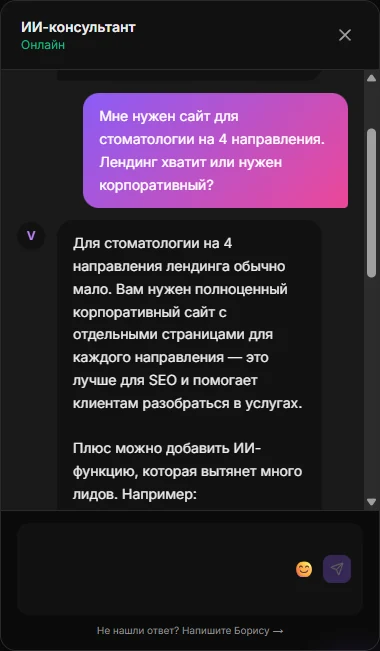
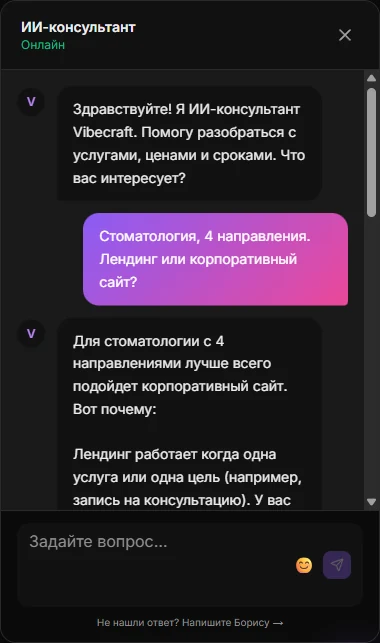
fix(blog): скрин ИИ-консультанта переснят как его видит посетитель, картинки по центру колонки
Кадр был снят с середины переписки и с фокусом в поле ввода: placeholder гаснет при
фокусе, поле выглядело пустой дырой на треть картинки. Плюс .blog-content img не
центрировался — узкая вертикальная картинка прижималась к левому краю.

В скил audit-live добавлены проверки кадра: снимать без фокуса и с начала блока,
смотреть готовый файл глазами, проверять как картинка села в колонку.

diff --git a/lib/blog-posts.ts b/lib/blog-posts.ts
@@ -90,7 +90,7 @@ export const posts: Post[] = [
 
 Если сомневаетесь, что именно вам подойдет под задачу и бюджет, [опишите ее в брифе](/#contact): ответ придет в течение рабочего дня, в пределах 1-2 часов.
 
-![ИИ-чат-консультант на сайте: клиент спрашивает про сайт для стоматологии на 4 направления и получает разбор с ценой](/blog/vibecraft-ii-chat-konsultant.webp)
+![ИИ-чат-консультант на сайте: клиент спрашивает про стоматологию с 4 направлениями и получает разбор, лендинг ему подходит или корпоративный сайт](/blog/vibecraft-ii-chat-konsultant.webp)
 
 ## FAQ
 

diff --git a/app/globals.css b/app/globals.css
@@ -227,7 +227,10 @@ button[aria-haspopup="listbox"]:focus-visible {
 }
 .blog-content img {
   border-radius: 0.75rem;
-  margin: 1.5rem 0;
+  /* по центру колонки: широкие скриншоты и так на всю ширину, узкие
+     (вертикальный виджет чата) без этого прижимались к левому краю */
+  display: block;
+  margin: 1.5rem auto;
 }
 .blog-content .table-scroll {
   overflow-x: auto;

diff --git a/lib/blog-images.ts b/lib/blog-images.ts
@@ -17,5 +17,5 @@ export const BLOG_IMAGE_SIZES: Record<string, [number, number]> = {
   "/blog/esf-vhod-ncalayer.webp": [1200, 516],
   "/blog/vibecraft-uslugi-ceny.webp": [1074, 412],
   "/blog/vibecraft-kalkulyator-stoimosti.webp": [880, 585],
-  "/blog/vibecraft-ii-chat-konsultant.webp": [380, 651],
+  "/blog/vibecraft-ii-chat-konsultant.webp": [380, 643],
 };

diff --git a/.claude/commands/audit-live.md b/.claude/commands/audit-live.md
@@ -28,6 +28,8 @@ description: Финальный аудит опубликованной стат
 
 1. Снять экран через Playwright — реальный интерфейс сервиса или нашу страницу, о которой идет речь.
 2. Обрезать до сути: нужный блок, без пустых полей, без панелей браузера и личных данных.
+2.1. Кадр должен показывать продукт ТАК, КАК ЕГО ВИДИТ ПОСЕТИТЕЛЬ, а не как вышло у меня. Перед съемкой: убрать фокус с полей (`blur()`), иначе гаснет placeholder и поле выглядит пустой дырой; прокрутить блок в начало, чтобы кадр начинался с целого элемента, а не с обрезанной середины; показать сценарий целиком (для чата — приветствие, вопрос, начало ответа), а не его хвост. Класс факапа: виджет ИИ-консультанта сняли с середины переписки и с полем ввода в фокусе — вышла картинка, которая на реальный виджет не похожа.
+2.2. Открыть снятый файл через Read и посмотреть глазами: что в кадре, нет ли пустых зон на треть картинки, читается ли текст. Файл сохранен ≠ кадр годный.
 3. Сохранить в `public/blog/<slug-opisanie>.webp`. Формат только webp, ширина до 1200, вес держать в районе 20-75 КБ — как у существующих файлов.
 4. Вставить в текст статьи markdown-картинкой с осмысленным alt: `![что именно на скриншоте и зачем он тут](/blog/file.webp)`. Alt описывает содержимое, а не «скриншот 1».
 5. Дописать ширину и высоту в `lib/blog-images.ts` — без этого страница прыгает при загрузке.
@@ -36,6 +38,8 @@ description: Финальный аудит опубликованной стат
 ## Порядок
 
 Правки вносить сразу в `lib/blog-posts.ts` — статья уже в проде, отдельный markdown Boris не вставляет. Перед пушем прогнать `npm run build`. После деплоя перепроверить страницу в Playwright: картинки отдаются, таблица не разъехалась, разметка на месте.
+
+Отдельно про вставленную картинку: снять кусок статьи вокруг нее скриншотом и посмотреть, как она села в колонку текста — по центру или прижата к краю, не мелкая ли, не рвет ли ритм. Узкая вертикальная картинка ведет себя иначе, чем широкий скриншот, и на глаз это видно сразу, а по коду — нет.
 
 Орфографические и грамматические промахи, которые видно в тексте бота, чинить и в `c:\Claude Code\vela-marketing-bot\workflows\blog_writer.py` — правилом на класс ошибки, а не на этот случай.
 
